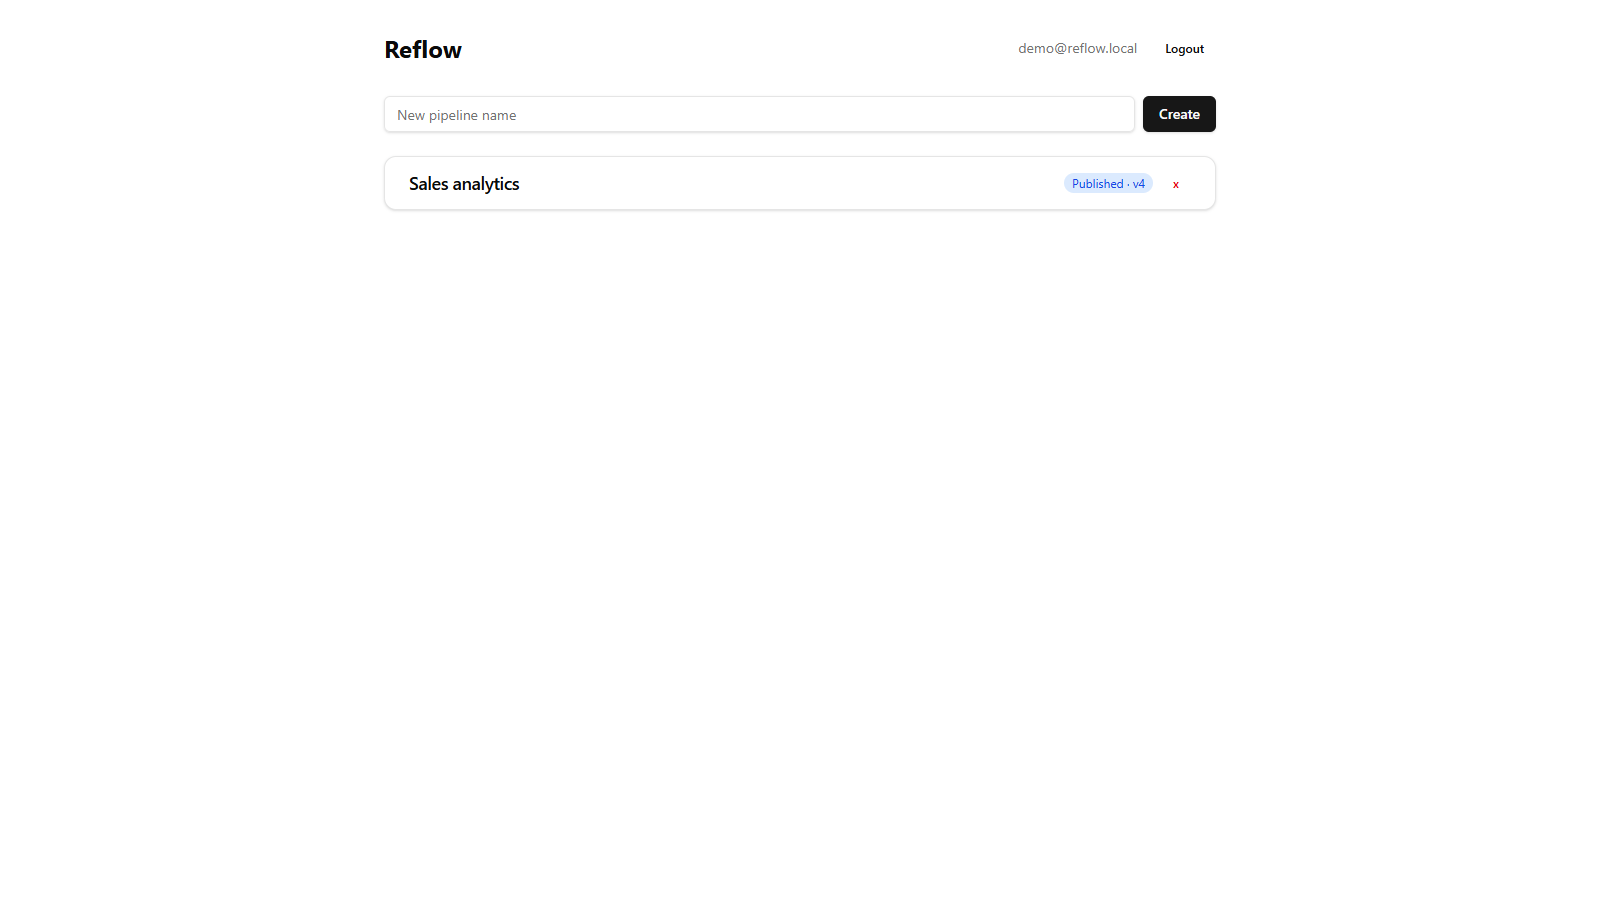
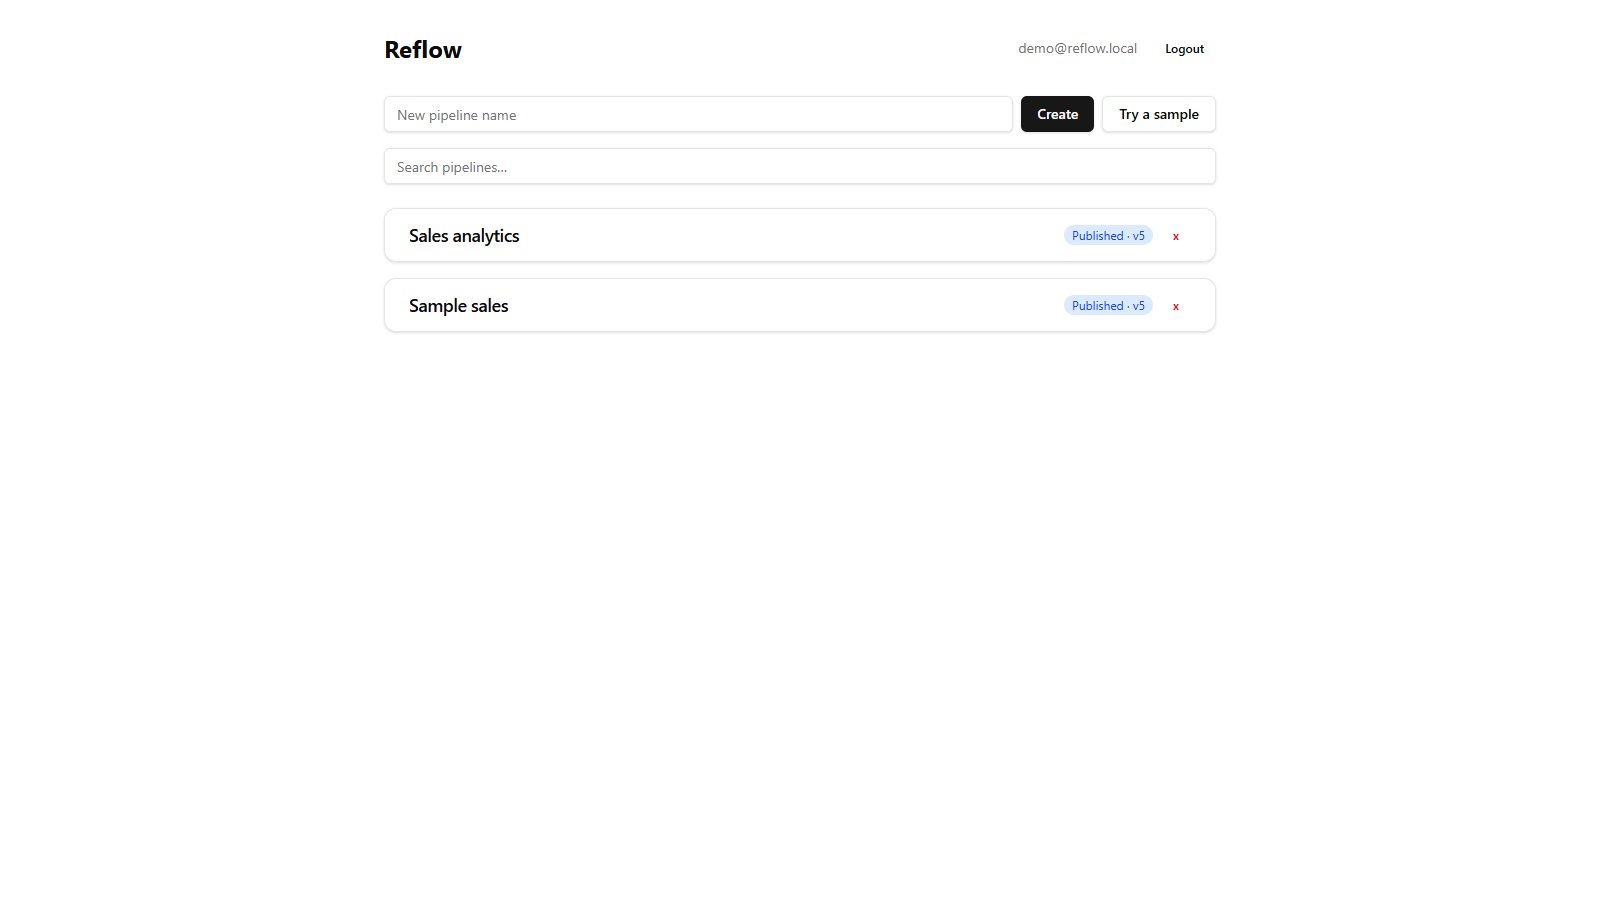
docs: triggers guide, node catalog and fresh screenshots
Webhook create/payload/idempotency docs, 10-node table, current test counts, re-shot canvas with the categorized palette.

diff --git a/README.md b/README.md
@@ -30,22 +30,40 @@ Canvas (React Flow, palette from GET /api/node-types)
         ↓  save / validate / publish (immutable version)
 Trigger (manual / cron / webhook, idempotent)
         ↓
-Pipeline run → DAG execution engine (atomic claims, bounded retries)
+Pipeline run → DAG execution engine (wake-up pulses, atomic claims, bounded retries)
+        ↓  live runChanged pushes over SignalR
+Node handlers → DuckDB SQL (filter/transform/aggregate/join/sort)
         ↓
-Node handlers → DuckDB SQL (filter/transform/aggregate/join)
-        ↓
-Task outputs, attempts, logs, lineage-ready metadata
+Task outputs, attempts, logs, artifacts, lineage-ready metadata
 ```
 
 Triggers start runs; they never execute pipelines inline. Webhook events are
-persisted and deduplicated on `(trigger, external event id)`.
+persisted and deduplicated on `(trigger, external event id)`. Tables in
+`data.sql` are named after their source nodes (`FROM orders o JOIN customers c`).
+
+## Triggers
+
+```text
+POST /api/v1/pipelines/{id}/triggers/schedules   { name, cron, timezone, overlap }
+POST /api/v1/pipelines/{id}/triggers/webhooks    → { token } (shown once)
+POST /api/v1/hooks/{token}                       inbound JSON → 202 { id }
+```
+
+- Schedules use 5-field cron plus timezone, `skip`/`queue` overlap policies,
+  and a background worker with queue caps.
+- Webhook URLs embed a secret token (SHA-256 at rest, regenerable). The body
+  becomes the run payload (600 KB cap, must be JSON).
+- Idempotency: send `X-Event-Id` (or an `eventId` field) and replays return the
+  original run instead of starting a duplicate.
+- Inside a pipeline, a `trigger.payload` node (optional `rootPath`) parses the
+  payload so downstream SQL can query it like any table.
 
 ## Tech
 
 - .NET 10, ASP.NET Core Minimal APIs (no controllers), vertical slices
 - PostgreSQL + Entity Framework Core (control plane; one schema per module)
 - DuckDB (analytical SQL), JWT auth over HttpOnly cookies, FluentValidation
-- Serilog, Swagger (dev), Cronos (schedules), xUnit (66 unit + 26 API tests)
+- Serilog, Swagger (dev), Cronos (schedules), SignalR (live runs), xUnit (81 unit + 25 API tests)
 - React 19 + TypeScript + Vite + Tailwind + React Flow
 
 ## Architecture
@@ -62,7 +80,7 @@ persisted and deduplicated on `(trigger, external event id)`.
 |--------|---------------|--------|
 | Identity | Register, login, JWT + refresh, `/auth/me` | Done |
 | Pipelines | CRUD, DAG validation, immutable versions, publish/archive | Done |
-| NodeTypes | Registry, `GET /api/node-types`, csv/json/filter/transform/sql slices | Growing |
+| NodeTypes | Registry, `GET /api/node-types`, 10 slices (sources, shaping, SQL, sinks) | Growing |
 | DataProcessing | Frame abstractions, CSV/JSON codecs, DuckDB engine, artifacts, catalog, quality, lineage | Core done |
 | PipelineExecution | Runs, attempts, logs, worker, retries, cancel, recovery | Done |
 | Triggers | Cron schedules, idempotent webhooks, scheduler worker | Done |
@@ -107,9 +125,14 @@ POST /api/v1/hooks/{token}              inbound webhook → 202 (idempotent)
 |------|--------------|
 | `csv.read` | Parse CSV text into a table |
 | `json.read` | Parse JSON text or unpack an upstream JSON column |
+| `trigger.payload` | Parse the run's webhook/schedule payload |
 | `filter` | `WHERE` predicate compiled to SQL (8 operators) |
 | `transform` | `SELECT` / `EXCLUDE` / `RENAME` compiled to SQL |
-| `data.sql` | Free-form DuckDB SQL over `input` / `input1..N` |
+| `aggregate` | `GROUP BY` + count/distinct/sum/avg/min/max |
+| `sort` | Multi-key `ORDER BY` |
+| `join` | Inner/left join on shared or distinct keys |
+| `data.sql` | Free-form DuckDB SQL over node-named tables |
+| `data.output` | Save downloadable JSON/CSV run artifact |
 
 ## Testing
 
@@ -120,6 +143,6 @@ cd frontend && npm run build
 
 ## Roadmap
 
-Aggregate/join/sort/output slices → Arrow interchange + Parquet artifacts →
+Architecture boundary tests in CI → Arrow interchange + Parquet artifacts →
 Connections (DB sinks by reference, not credentials) → Docker Compose →
-dataset catalog persistence + lineage UI → architecture tests in CI.
+dataset catalog persistence + lineage UI.
